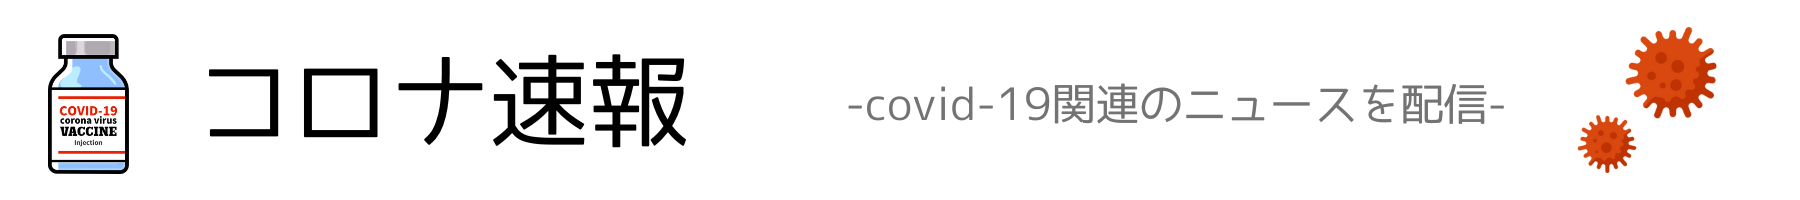
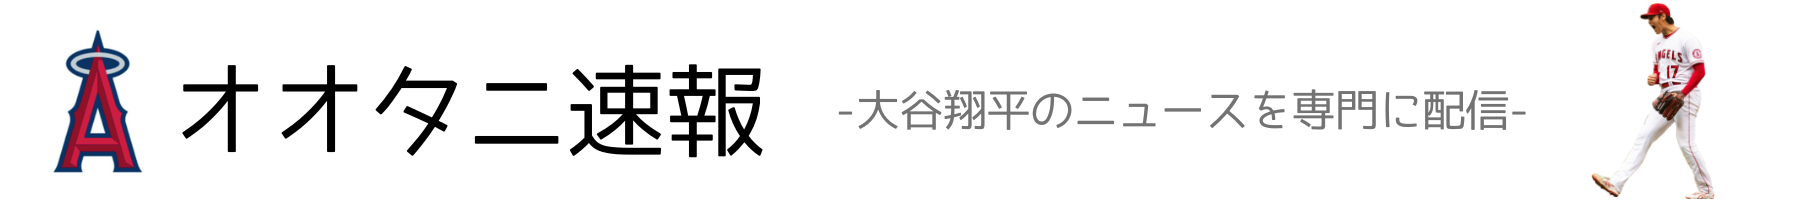
scraping追加

Changed region(s): [[0.0, 0.15, 0.4356, 0.87], [0.4667, 0.42, 0.8711, 0.66], [0.8711, 0.0, 0.9644, 1.0]]

diff --git a/news/templates/news/index.html b/news/templates/news/index.html
@@ -63,7 +63,7 @@
                     </div>
                 </nav>
 
-                <h1>"Welcome To Covid-21 News!!"</h1>
+                <h1>"Welcome To OHTANI News!!"</h1>
 
                 <h4>記事一覧</h4>
                 {% for news in news.all %}
@@ -71,7 +71,7 @@
                     <div class="row g-0">
                         <div class="col-md-4">
                             <img src="{{ news.image.url }}" class="img-fluid rounded mx-auto"
-                                style="max-height: 200px" />
+                                style="max-height: 150px" />
                         </div>
                         <div class="col-md-8">
                             <div class="card-body">
@@ -107,7 +107,7 @@
             <!-- Grid container -->
             <div class="container p-4 pb-0">
                 <!-- Section: Form -->
-                <section class="">
+                <section class="newsletter">
                     <form action="">
                         <!--Grid row-->
                         <div class="row d-flex justify-content-center">

diff --git a/news/scraping.py b/news/scraping.py
@@ -1,0 +1,69 @@
+import requests
+from bs4 import BeautifulSoup
+import re
+import time
+from .models import News
+
+from datetime import datetime, date
+from apscheduler.schedulers.background import BackgroundScheduler
+
+# 検索ワードのURL特定(本日)
+
+
+def get_news():
+    year = datetime.datetime.today().strftime('%Y')
+    month = datetime.datetime.today().strftime('%-m')
+    day = datetime.datetime.today().strftime('%-d')
+    keyword = "大谷翔平"
+    url = 'https://www.yomiuri.co.jp/web-search'
+    params = {'st': '1', 'wo': keyword, 'ac': 'srch', 'ar': '1', 'fy': year,
+              'fm': month, 'fd': day, 'ty': year, 'tm': month, 'td': day}
+    res = requests.get(url, params=params)
+
+    # 検索一覧の読み込み
+    soup = BeautifulSoup(res.text, "html.parser")
+    elems = soup.select("div.search-article-list > ul")
+    elems = elems[0].find_all("h3")
+
+    news_links = [elem.a["href"] for elem in elems]
+
+    for news_link in news_links:
+        news_res = requests.get(news_link)
+        news_soup = BeautifulSoup(news_res.text, "html.parser")
+
+        # 画像リンクの取得
+        img_link = news_soup.find(class_=re.compile(
+            "wp-caption none thumbnails-left"))
+        img_url = "https://www.yomiuri.co.jp" + \
+            img_link.find('img').get("src")
+        # print(news_url)
+        news_img = requests.get(img_url)
+
+        # print(news_soup.title.text)
+        news_title = news_soup.title.text
+        # print(news_soup.time.text)
+        news_time = news_soup.time.text
+        # print(news_link)
+
+        # class属性の値は、サイトを確認して最新の値を設定する必要があります
+        detail_text = news_soup.find(class_=re.compile("p-main-contents"))
+        news_text = detail_text.text
+
+        # print(detail_text.text if hasattr(
+        #     detail_text, "text") else '', end="\n\n\n\n")
+
+        time.sleep(1)
+
+        News.objects.create(title=news_title, link=news_link,
+                            published=news_time, body=news_text, image=news_img)
+
+
+def start():
+    scheduler = BackgroundScheduler()
+    scheduler.add_job(get_news, 'cron',
+                      hour=23, minute=55)  # 毎日23時55分に実行
+
+    scheduler.start()
+
+
+print('Update!')

diff --git a/news/migrations/0002_news_link.py b/news/migrations/0002_news_link.py
@@ -1,0 +1,18 @@
+# Generated by Django 3.2.5 on 2022-05-09 06:23
+
+from django.db import migrations, models
+
+
+class Migration(migrations.Migration):
+
+    dependencies = [
+        ('news', '0001_initial'),
+    ]
+
+    operations = [
+        migrations.AddField(
+            model_name='news',
+            name='link',
+            field=models.URLField(null=True),
+        ),
+    ]

diff --git a/news/models.py b/news/models.py
@@ -6,6 +6,7 @@ from django.db import models
 
 class News(models.Model):
     title = models.CharField(max_length=100)
+    link = models.URLField(null=True)
     published = models.DateTimeField()
     image = models.ImageField(upload_to='media/')
     body = models.TextField()

diff --git a/news/apps.py b/news/apps.py
@@ -4,3 +4,7 @@ from django.apps import AppConfig
 class NewsConfig(AppConfig):
     default_auto_field = 'django.db.models.BigAutoField'
     name = 'news'
+
+    def ready(self):
+        from .scraping import start
+        start()

diff --git a/newsapp/settings.py b/newsapp/settings.py
@@ -38,7 +38,7 @@ INSTALLED_APPS = [
     'django.contrib.sessions',
     'django.contrib.messages',
     'django.contrib.staticfiles',
-    'news.apps.NewsConfig'
+    'news.apps.NewsConfig',
 ]
 
 MIDDLEWARE = [
